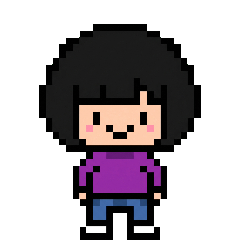
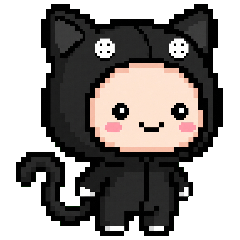
코스튬 캐릭터로 교체, 피할 것은 은행·낙엽 둘만 위험하게, 먹는 아이템 전부 제거

diff --git a/game.js b/game.js
@@ -52,8 +52,7 @@
     $('cname').textContent = c.name;
     $('cteam').textContent = c.team;
     $('cplace').textContent = c.place;
-    $('cconcept').textContent = c.concept;
-    $('citems').textContent = '주우면 ' + c.goodies.map(g => `${g.name} +${g.pt}`).join(' · ');
+    $('cconcept').textContent = c.costume;
     $('cbest').textContent = `최고 ${store.get(bestKey(c.id))}점`;
 
     [...$('dots').children].forEach((d, i) => d.className = i === sel ? 'on' : '');
@@ -66,15 +65,15 @@
 
   // ---------- 상태 ----------
   let char = null;            // 선택된 캐릭터
-  let art = null;             // { bg, player, hazards:[], goodies:[] } — 로드된 이미지
+  let art = null;             // { bg, player, hazards:[] } — 로드된 이미지
   let state = 'select';       // select | ready | playing | over
   let W = 0, H = 0;
   let px = 0, py = 0;
   let items = [], pops = [];
-  let elapsed = 0, picked = 0, pickedCount = 0, lives = LIVES, invuln = 0, spawnTimer = 0, last = 0;
+  let elapsed = 0, lives = LIVES, invuln = 0, spawnTimer = 0, last = 0;
 
   const clamp = (v, lo, hi) => v < lo ? lo : v > hi ? hi : v;
-  const score = () => Math.floor(elapsed) + picked;
+  const score = () => Math.floor(elapsed);
 
   async function choose(id) {
     char = CHARS.find(c => c.id === id);
@@ -89,24 +88,18 @@
       const [bg, player, ...rest] = await Promise.all([
         loadImage(`bg-${char.id}`),
         loadImage(`char-${char.id}`),
-        ...HAZARDS.map(h => loadImage(h.img)),
-        ...char.goodies.map(g => loadImage(g.img))
+        ...HAZARDS.map(h => loadImage(h.img))
       ]);
-      art = {
-        bg, player,
-        hazards: HAZARDS.map((h, i) => ({ ...h, im: rest[i], bad: true })),
-        goodies: char.goodies.map((g, i) => ({ ...g, im: rest[HAZARDS.length + i], bad: false }))
-      };
+      art = { bg, player, hazards: HAZARDS.map((h, i) => ({ ...h, im: rest[i] })) };
     } catch (e) {
       showOverlay('이미지를 못 불러왔습니다', e.message, '새로고침해 주세요');
       return;
     }
     $('again').style.display = '';
     $('again').textContent = '시작';
-    const goodNames = char.goodies.map(g => `${g.name} +${g.pt}`).join(' · ');
     showOverlay(char.name,
-      `주우면 점수: ${goodNames}`,
-      `피할 것: ${HAZARDS.map(h => h.name).join(' · ')}<br>목숨 ${LIVES}개 · 버틴 1초당 1점`);
+      `${HAZARDS.map(h => h.name).join('과 ')}을 피하세요`,
+      `목숨 ${LIVES}개 · 버틴 1초가 1점`);
     draw();
   }
 
@@ -140,7 +133,7 @@
 
   function start() {
     items = []; pops = [];
-    elapsed = 0; picked = 0; pickedCount = 0; lives = LIVES; invuln = 0; spawnTimer = 0;
+    elapsed = 0; lives = LIVES; invuln = 0; spawnTimer = 0;
     px = W / 2; py = H - PAD_Y;
     state = 'playing';
     overlay.classList.add('hide');
@@ -162,7 +155,7 @@
     let head = '게임 오버';
     if (sc > prev) { store.set(key, sc); head = '최고 기록!'; }
     showOverlay(head,
-      `${sc}점 · ${elapsed.toFixed(1)}초 버팀<br>주운 것 ${pickedCount}개`,
+      `${elapsed.toFixed(1)}초 버팀`,
       `최고 ${Math.max(sc, prev)}점 (${char.name})`);
     $('again').textContent = '다시 하기';
     updateHud();
@@ -173,17 +166,15 @@
 
   function spawn() {
     const d = difficulty(elapsed);
-    // 나쁜 것 65% / 좋은 것 35%
-    const pool = Math.random() < 0.65 ? art.hazards : art.goodies;
-    const kind = pool[Math.floor(Math.random() * pool.length)];
-    const h = kind.bad ? 30 + Math.random() * 12 : 32;
+    const kind = art.hazards[Math.floor(Math.random() * art.hazards.length)];
+    const h = 30 + Math.random() * 12;
     const w = h * (kind.im.width / kind.im.height);
     items.push({
       kind, w, h,
       x: Math.random() * Math.max(1, W - w),
       y: -h - 4,
       vy: 160 + Math.random() * 80 + d * 250,
-      spin: kind.bad ? (Math.random() - 0.5) * 2.5 : 0,
+      spin: (Math.random() - 0.5) * 2.5,
       rot: 0
     });
   }
@@ -216,19 +207,14 @@
       if (it.y > H + 40) { items.splice(i, 1); continue; }
       if (!hits(it)) continue;
 
-      if (!it.kind.bad) {                              // 좋은 것 → 점수
-        picked += it.kind.pt;
-        pickedCount++;
-        pops.push({ x: it.x + it.w / 2, y: it.y, t: 0, txt: `+${it.kind.pt}`, good: true });
-        items.splice(i, 1);
-      } else if (invuln <= 0) {                        // 나쁜 것 → 목숨
+      if (invuln <= 0) {
         lives--;
         invuln = INVULN;
-        pops.push({ x: it.x + it.w / 2, y: it.y, t: 0, txt: '−1', good: false });
+        pops.push({ x: it.x + it.w / 2, y: it.y, t: 0, txt: '−1' });
         items.splice(i, 1);
         if (lives <= 0) { updateHud(); draw(); return gameOver(); }
+        updateHud();
       }
-      updateHud();
     }
 
     for (let i = pops.length - 1; i >= 0; i--) {
@@ -277,7 +263,7 @@
     ctx.font = 'bold 16px Galmuri, monospace';
     for (const p of pops) {
       ctx.globalAlpha = Math.max(0, 1 - p.t / 0.7);
-      ctx.fillStyle = p.good ? '#ffe07a' : '#ff6b84';
+      ctx.fillStyle = '#ff5577';
       ctx.strokeStyle = 'rgba(0,0,0,.65)';
       ctx.lineWidth = 3;
       const y = p.y - p.t * 40;

diff --git a/chars.js b/chars.js
@@ -1,65 +1,21 @@
-// 캐릭터 6명. 각자 배경과 "먹으면 점수 오르는" 오브제가 다르다.
-// 피해야 하는 것(HAZARDS)은 가을 컨셉으로 6명 공통.
+// 피해야 하는 것 두 가지. 6명 공통.
 const HAZARDS = [
   { img: 'obj-ginkgo',   name: '은행' },
-  { img: 'obj-chestnut', name: '밤송이' },
-  { img: 'obj-deadleaf', name: '낙엽' },
-  { img: 'obj-maple',    name: '단풍' }
+  { img: 'obj-deadleaf', name: '낙엽' }
 ];
 
+// 캐릭터 6명. 각자 자기를 상징하는 코스튬을 입고, 배경도 다르다.
 const CHARS = [
-  {
-    id: 'bonhyuk', name: '본혁', team: '크리랩', tint: '#cfe6ff',
-    place: '가을 밴쿠버', concept: '밴드 건반 · ASMR로 심신의 안정',
-    goodies: [
-      { img: 'obj-keyboard',   name: '건반',   pt: 5 },
-      { img: 'obj-headphones', name: '헤드폰', pt: 10 },
-      { img: 'obj-coffee',     name: '커피',   pt: 5 }
-    ]
-  },
-  {
-    id: 'seungil', name: '승일', team: '마케팅2팀', tint: '#ffdfb0',
-    place: '여름 칸쿤', concept: '어둠의 기사를 좋아함',
-    goodies: [
-      { img: 'obj-bat',      name: '박쥐',   pt: 10 },
-      { img: 'obj-mask',     name: '가면',   pt: 5 },
-      { img: 'obj-cocktail', name: '칵테일', pt: 5 }
-    ]
-  },
-  {
-    id: 'yukyung', name: '유경', team: '사업전략', tint: '#d7eec6',
-    place: '가을 밴쿠버', concept: '영화 배급 · 드골을 홍보했다',
-    goodies: [
-      { img: 'obj-filmreel', name: '필름 릴', pt: 10 },
-      { img: 'obj-ticket',   name: '티켓',    pt: 5 },
-      { img: 'obj-popcorn',  name: '팝콘',    pt: 5 }
-    ]
-  },
-  {
-    id: 'hyunho', name: '현호', team: 'AI AX Lab', tint: '#ffe0cf',
-    place: '가을 밴쿠버', concept: '거미의 감각을 지닌 히어로 팬',
-    goodies: [
-      { img: 'obj-web',        name: '거미줄',  pt: 5 },
-      { img: 'obj-webshooter', name: '웹슈터',  pt: 10 },
-      { img: 'obj-spider',     name: '거미',    pt: 5 }
-    ]
-  },
-  {
-    id: 'yeonsu', name: '연수', team: '마케팅1팀', tint: '#bceaf3',
-    place: '여름 휴양지', concept: '리조트에서 보내는 여름',
-    goodies: [
-      { img: 'obj-float',      name: '튜브',       pt: 5 },
-      { img: 'obj-icecream',   name: '아이스크림', pt: 10 },
-      { img: 'obj-sunglasses', name: '선글라스',   pt: 5 }
-    ]
-  },
-  {
-    id: 'suyeon', name: '수연', team: '마케팅5팀', tint: '#d2e8dd',
-    place: '가을 퀘벡', concept: '단추 눈 소녀의 세계',
-    goodies: [
-      { img: 'obj-button', name: '단추',      pt: 5 },
-      { img: 'obj-key',    name: '열쇠',      pt: 10 },
-      { img: 'obj-cat',    name: '검은 고양이', pt: 5 }
-    ]
-  }
+  { id: 'bonhyuk', name: '본혁', team: '크리랩',    tint: '#cfe6ff',
+    place: '가을 밴쿠버',   costume: '건반 무늬 옷 + 헤드폰' },
+  { id: 'seungil', name: '승일', team: '마케팅2팀',  tint: '#ffdfb0',
+    place: '여름 칸쿤',     costume: '박쥐 코스튬' },
+  { id: 'yukyung', name: '유경', team: '사업전략',   tint: '#d7eec6',
+    place: '가을 밴쿠버',   costume: '팝콘 코스튬' },
+  { id: 'hyunho',  name: '현호', team: 'AI AX Lab', tint: '#ffe0cf',
+    place: '가을 밴쿠버',   costume: '거미 코스튬 + 뿔테' },
+  { id: 'yeonsu',  name: '연수', team: '마케팅1팀',  tint: '#bceaf3',
+    place: '여름 휴양지',   costume: '플라밍고 튜브' },
+  { id: 'suyeon',  name: '수연', team: '마케팅5팀',  tint: '#d2e8dd',
+    place: '가을 퀘벡',     costume: '검은 고양이 코스튬' }
 ];

diff --git a/index.html b/index.html
@@ -49,13 +49,13 @@
   }
   .arrow:hover { color: #e8407a; }
   .side { width: 78px; height: 84px; display: flex; align-items: flex-end; justify-content: center; }
-  .side img { height: 78px; width: auto; opacity: .5; }
+  .side img { height: 78px; width: 78px; opacity: .5; }
 
   #frame {
-    width: 172px; height: 190px; background: #fff;
-    display: flex; align-items: flex-end; justify-content: center;
+    width: 184px; height: 184px; background: #fff;
+    display: flex; align-items: center; justify-content: center;
   }
-  #frame img { height: 168px; width: auto; }
+  #frame img { height: 184px; width: 184px; }
 
   #meta { margin-top: 18px; }
   #cname { font-size: 22px; font-weight: 700; text-shadow: 2px 2px 0 rgba(255,255,255,.7); }
@@ -65,7 +65,6 @@
   }
   #cplace { margin-top: 12px; font-size: 12px; font-weight: 700; color: #b3306b; }
   #cconcept { margin-top: 10px; font-size: 11px; line-height: 1.9; color: #2b3d5c; }
-  #citems { margin-top: 10px; font-size: 11px; line-height: 1.9; color: #3c527a; }
   #cbest { margin-top: 12px; font-size: 11px; }
 
   #dots { margin-top: 16px; display: flex; gap: 7px; justify-content: center; }
@@ -124,7 +123,7 @@
 
 <section id="select">
   <h1>가을 피하기</h1>
-  <p class="lead">은행 · 밤송이 · 낙엽 · 단풍은 피하고<br>내 것들만 주워 먹기</p>
+  <p class="lead">떨어지는 은행과 낙엽을 피해<br>최대한 오래 버티기</p>
 
   <div id="carousel">
     <div class="side"><img id="prevImg" alt=""></div>
@@ -139,7 +138,6 @@
     <div id="cteam">—</div>
     <div id="cplace">—</div>
     <div id="cconcept">—</div>
-    <div id="citems">—</div>
     <div id="cbest">최고 0점</div>
   </div>
 
